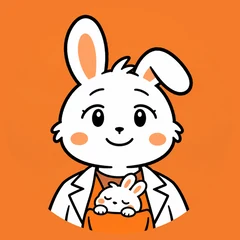
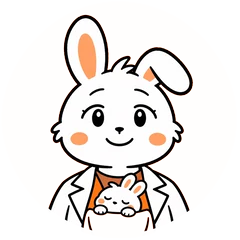
トップの「のめた！」のスタンプの地を、濃いオレンジからクリーム色にする
- うさぎの親子の絵から、まわりの濃いオレンジの地だけを抜いた（抱っこひものオレンジは残す）
- スタンプの地は前のくまと同じクリーム色（--stamp-soft）。ユーザー「背景オレンジがびみょう」。4案からユーザーが選んだ
- docs/22 に確認の結果、CLAUDE.md に決まったことを書く

diff --git a/CLAUDE.md b/CLAUDE.md
@@ -190,7 +190,7 @@ Claude がやること:
   - 押せるもの（ボタン、薬の行、開くやり方、年齢のカード）は、白い面・枠・下の影・右の丸い印（「›」は移動、「＋」は開く）。押せない情報（時期の特徴、混ぜていい食べ物の箱、準備中の薬）は、うすい色の面だけで、枠も影もつけない
   - オレンジの題は1画面に1つ（ページの題か、薬の名前）。ほかの見出しと、やり方の名前は濃い茶色。青はリンクと「選んでいる」だけ
   - 字の大きさは5つ（題 26・見出し 19・本文とボタン 17・補足 15・小さい注 13）。本文の太さは 500。全部左ぞろえ
-  - 飾りは、「のめた！」のスタンプだけ。点線や色の線は足さない。スタンプの絵は、2026-11-16 に、くまから「うさぎの親子」（白衣のうさぎの親と、抱っこひもの子うさぎ。インスタのアイコンと同じ絵。img/usagi_oyako.webp）に変えた（ユーザーの指示「トップページのアイコンも変えて」。動画で解説しているのも同じうさぎ）。保存用の画像（card/）のスタンプは、くまのまま（そろえるかは、まだ決めていない）
+  - 飾りは、「のめた！」のスタンプだけ。点線や色の線は足さない。スタンプの絵は、2026-11-16 に、くまから「うさぎの親子」（白衣のうさぎの親と、抱っこひもの子うさぎ。インスタのアイコンと同じ絵。img/usagi_oyako.webp。地は、絵の濃いオレンジを抜いて、前と同じクリーム色にした（同日ユーザー「背景オレンジがびみょう」））に変えた（ユーザーの指示「トップページのアイコンも変えて」。動画で解説しているのも同じうさぎ）。保存用の画像（card/）のスタンプは、くまのまま（そろえるかは、まだ決めていない）
   - 薬の一覧は、準備中の薬より、開ける薬を目立たせる
 
 ## 進め方のメモ

diff --git a/docs/22_ui_sekkei.md b/docs/22_ui_sekkei.md
@@ -186,6 +186,8 @@
 
 変えたのは、トップの右上のスタンプだけ。絵を、インスタのアイコンと同じ「白衣のうさぎの親と、抱っこひもの子うさぎ」（img/usagi_oyako.webp。240×240、約9KB）にした。丸い枠、点線、「のめた！」の札、かたむきは前のまま。札は、子うさぎにかからないよう 6px 下げた。
 
+同じ日に、絵の地の濃いオレンジを抜いて、前のくまと同じクリーム色（--stamp-soft #fff4dc）の地にした（ユーザー「背景オレンジがびみょう」。クリーム・白・うすい水色・うすいオレンジの4案から、ユーザーがクリームを選んだ）。絵は背景が透明な webp（約15KB）。抱っこひものオレンジは残した。下の表の「配置」の △（濃いオレンジが見出しの横でもう1つ目立つ）は、これでなくなった（○）。幅 375px で見出しと重ならず、横のはみ出しもなし。
+
 | 観点 | 結果 | 見つかったこと |
 |---|---|---|
 | 3秒テスト | ○ | 見出しと検索の欄は前のまま。スタンプは飾りで、何ができるかの伝わり方は変わらない |
